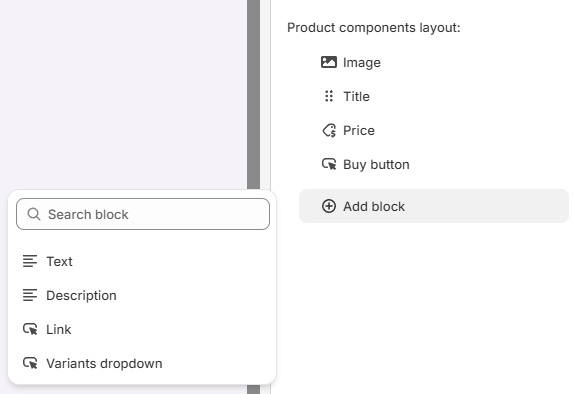
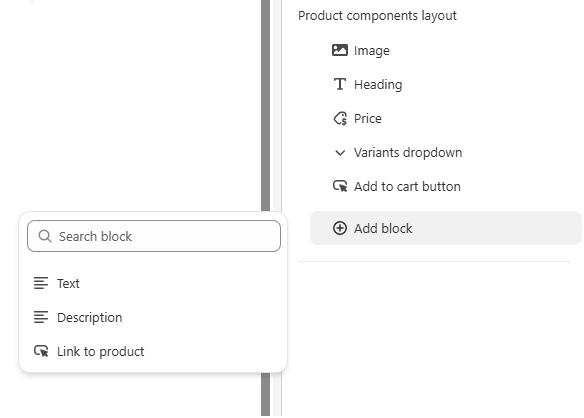
docs: update results page documentation with new slot settings and terminology adjustments, including image replacements for improved clarity

diff --git a/docs/reference/quiz-builder/results-page.md b/docs/reference/quiz-builder/results-page.md
@@ -516,9 +516,13 @@
 
     *Min. number of votes:* - Select what minimum number of votes a product or a variants should receive in order to be displayed in this product block. If a product receives less votes than specified here at the end of the quiz, it will not be shown.
 
+    *Slot title/description alignment* - Select how the slot title or description should be aligned within the slot block- left, center or right.
+
     *Products/Collections Alignment* - Select how the product slot should be aligned on the results page - left, center or right.
 
-    *Slot title/description alignment* - Select how the slot title or description should be aligned within the slot block- left, center or right.
+    *Heading size* - Select the text size of the slot heading.
+
+    *Description size* - Select the text size of the slot description.
 
     *Product components layout:* - Select which elements of the product slot should be displayed. Click and drag an element to change it's position within the slot.
 
@@ -528,23 +532,23 @@
 
     *Image* - Adds the product image.
 
-    *Title* - Add the product title.
+    *Heading* - Add the product title.
 
     *Price* - Adds the product price.
 
-    *Buy button* - Adds an "Add to cart" button.
+    *Add to cart button* - Adds an "Add to cart" button.
 
     *Text* - Adds an extra text block. Opens a text block menu that allows you to add your own custom text, link or a personalization.
 
     *Description* - Adds the product description.
 
-    *Link* - Adds a button link to the product URL.
+    *Link to product* - Adds a button link to the product URL.
 
     *Variants dropdown* - Adds a dropdown that dislays all the product variants.
 
     ![manual_shopifyV2_quizbuilder_quizbuilder_resultspage_resultspages_blocksettings_products_slot1](/images/manual_shopifyV2_quizbuilder_quizbuilder_resultspage_resultspages_blocksettings_products_slot1.png)
 
-    **Slot 1** - Slots allow you to group recommended products into different categories (e.g. cleanser, toner, serum, moisturizer...). Unless you add a filter, the slot will display a list of recommended products, variants or collections.
+    **Slot 1** - Slots allow you to recommend items and group them into different categories (e.g. cleanser, toner, serum, moisturizer...). Unless you add a filter, the slot will display a list of recommended products, variants or collections.
 
     **+ Add Slot** - Adds a new slot to the product/collection block.
 
@@ -552,19 +556,19 @@
 
     *Heading* - Adds a custom heading to the slot block.
 
-    *Heading size* - Changes the heading font size.
-
     *Description* - Adds a custom description to the slot block. Allows to add text, links or personalization.
+
+    *Slot width* - Select the default slot width.
 
     *Max. recommended products* - The maximum number of products allowed to be displayed in the slot block.
 
-    **Add segments** - Click `v Add` to select products from which Collections, Tags, Variants or Vendors will be shown in this slot block.
+    **Add segments** - Click `v Add` to select products from which Products, Varaints,Collections, Tags, Variants or Vendors will be shown in this slot block.
 
     !!! warning
 
-        If you add a filter, the slot will be able to display the most voted products from the linked collections.
+        If you add a segement, the slot will be able to display the most voted products from the linked products/collections.
 
-    **Exclude segments** - Click `v Exclude` to choose products from which Collections, Tags, Variants or Vendors will not be allowed to be shown in this slot block.
+    **Exclude segments** - Click `v Exclude` to choose products from which Products, Collections, Tags, Variants or Vendors will not be allowed to be shown in this slot block.
 
 === "WooCommerce"
 
